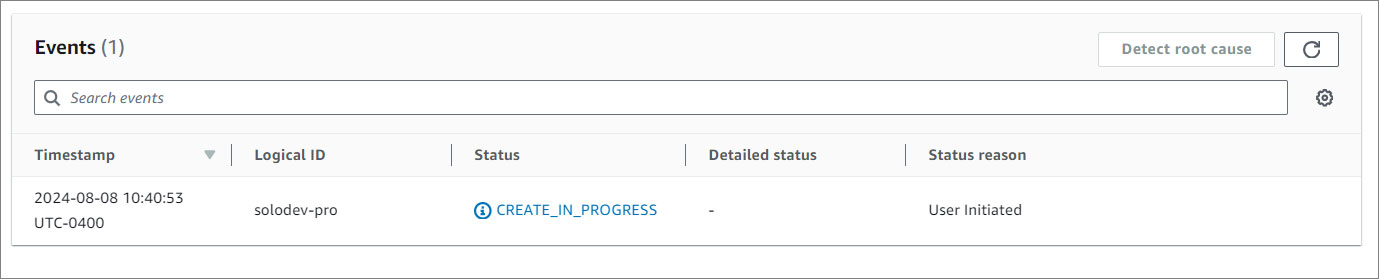
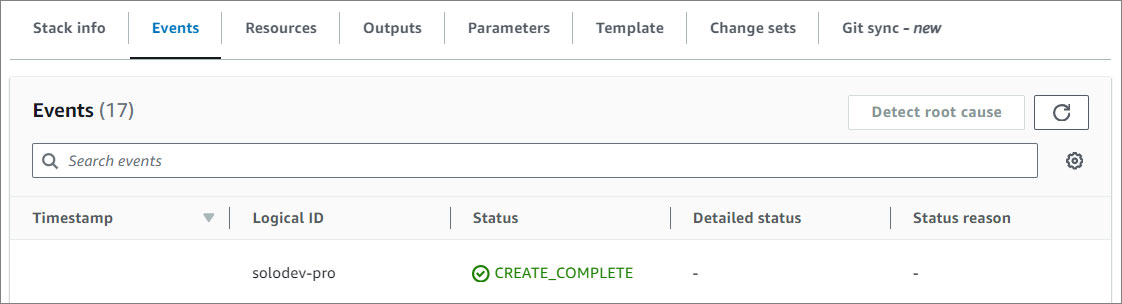
Update stacks section images for pro and micro.

diff --git a/src/Quickstart/Solodev Micro/index.md b/src/Quickstart/Solodev Micro/index.md
@@ -73,15 +73,11 @@ If your AWS region is different from `us-east-1`, make sure to select your speci
 
 #### Create Stack
 
-1. Prepare template. Select **choose an existing template**.
+1. Create a stack.
 
-<p><img src="../../images/quickstart/micro/micro-prepare-template.jpg" alt="CMS Micro prepare template" style="width: 90%;"></p>
+<p><img src="../../images/quickstart/micro/micro-create-stack.jpg" alt="CMS Micro Create Stack" style="width: 90%;"></p>
 
-2. Specify template. Select **Amazon S3 URL**.
-
-<p><img src="../../images/quickstart/micro/micro-specify-template.jpg" alt="CMS Micro specify template" style="width: 90%;"></p>
-
-3. Click <span class="text-orange">**Next**<span>.
+2. Click <span class="text-orange">**Next**</span>.
 
 #### Stack Details
 
@@ -118,7 +114,7 @@ SsoProviderUrl | Issuer URL of your OpenID Connect provider.
 SsoClientId | Unique identifier assigned to a client application that is registered with an AWS Single Sign-On (SSO) service, used to authenticate and authorize the application to access SSO resources.
 SsoClientSecret | Confidential key assigned to a client application registered with an AWS Single Sign-On (SSO) service, used in conjunction with the SSO Client ID to authenticate the application and secure access to SSO resources.
 
-3. Click <span class="text-orange">**Next**<span>.
+3. Click <span class="text-orange">**Next**</span>.
 
 #### Configure Stack Options
 
@@ -149,7 +145,7 @@ To learn more about the stack failure options, <a href="https://docs.aws.amazon.
 
 <p><img src="../../images/quickstart/micro/micro-stack-advanced.jpg" alt="CMS Micro advanced options" style="width: 50%;"></p>
 
-2. Click <span class="text-orange">**Next**<span>.
+2. Click <span class="text-orange">**Next**</span>.
 
 ### Review and create
 
@@ -159,7 +155,21 @@ To learn more about the stack failure options, <a href="https://docs.aws.amazon.
 
 <p><img src="../../images/quickstart/micro/micro-stack-capabilities.jpg" alt="CMS Micro capabilities" style="width: 62%;"></p>
 
-3. Click <span class="text-orange">**Submit**<span>.
+3. Click <span class="text-orange">**Submit**</span>.
+
+### Stacks
+
+1. <span class="text-orange">**Watch your CMS being created!**</span> Once the status changes from **CREATE_IN_PROGRESS** to **CREATE_COMPLETE**, you can access your CMS.
+
+<p><img src="../../images/quickstart/micro/micro-stack.jpg" alt="CMS Micro Stack" style="width: 62%;"></p>
+
+2. Click on the **Outputs** tab and copy the AdminUrl value.
+
+<p><img src="../../images/quickstart/pro/pro-stack-outputs.jpg" alt="CMS Micro Stack Outputs" style="width: 62%;"></p>
+
+3. Open your preferred browser and paste the AdminUrl value to access the CMS login page. Use the **Admin Username** and **Admin Password** provided in the stacks output to log in.
+
+<p><img src="../../images/quickstart/login-screen.jpg" alt="Solodev CMS Login Screen" style="width: 50%;"></p>
 
 {% endtab %}
 
@@ -313,7 +323,7 @@ If you do not have a Key Pair, you will need to create one in your Key Pair Cons
 
 Please [follow this link](/workspace/websites/add-website/) to learn more about Solodev and to learn how to build your first website.
 
-<p><img src="../../images/quickstart/login-screen.jpg" alt="Solodev CMS Login Screen" style="width: 45%;"></p>
+<p><img src="../../images/quickstart/login-screen.jpg" alt="Solodev CMS Login Screen" style="width: 50%;"></p>
 
 ### Troubleshooting
 

diff --git a/src/Quickstart/Solodev Pro/index.md b/src/Quickstart/Solodev Pro/index.md
@@ -97,7 +97,7 @@ If your AWS region is different from `us-east-1`, make sure to select your speci
 
 <p><img src="../../images/quickstart/pro/pro-create-stack.jpg" alt="CMS Pro Create Stack" style="width: 90%;"></p>
 
-2. Click <span class="text-orange">**Next**<span>.
+2. Click <span class="text-orange">**Next**</span>.
 
 #### Stack Details
 
@@ -158,7 +158,7 @@ SsoClientId | Unique identifier assigned to a client application that is registe
 SsoClientSecret | Confidential key assigned to a client application registered with an AWS Single Sign-On (SSO) service, used in conjunction with the SSO Client ID to authenticate the application and secure access to SSO resources.
 AmiAlias | An AMI Alias refers to a user-defined name or identifier for an Amazon Machine Image (AMI) that simplifies the process of referring to an AMI. <a href="https://docs.aws.amazon.com/AWSEC2/latest/UserGuide/AMIs.html" target="_blank">Click here :icon-link-external:</a> to learn more about AMIs.
 
-3. Click <span class="text-orange">**Next**<span>.
+3. Click <span class="text-orange">**Next**</span>.
 
 #### Configure Stack Options
 
@@ -189,7 +189,7 @@ To learn more about the stack failure options, <a href="https://docs.aws.amazon.
 
 <p><img src="../../images/quickstart/micro/micro-stack-advanced.jpg" alt="CMS Pro advanced options" style="width: 50%;"></p>
 
-2. Click <span class="text-orange">**Next**<span>.
+2. Click <span class="text-orange">**Next**</span>.
 
 ### Review and create
 
@@ -199,11 +199,11 @@ To learn more about the stack failure options, <a href="https://docs.aws.amazon.
 
 <p><img src="../../images/quickstart/pro/pro-stack-capabilities.jpg" alt="CMS Pro capabilities" style="width: 62%;"></p>
 
-3. Click <span class="text-orange">**Submit**<span>.
+3. Click <span class="text-orange">**Submit**</span>.
 
 ### Stacks
 
-1. **Watch your CMS being created!** Once the status changes from **CREATE_IN_PROGRESS** to **CREATE_COMPLETE**, you can access your CMS.
+1. <span class="text-orange">**Watch your CMS being created!**</span> Once the status changes from **CREATE_IN_PROGRESS** to **CREATE_COMPLETE**, you can access your CMS.
 
 <p><img src="../../images/quickstart/pro/pro-stack.jpg" alt="CMS Pro Stack" style="width: 62%;"></p>
 
@@ -213,7 +213,7 @@ To learn more about the stack failure options, <a href="https://docs.aws.amazon.
 
 3. Open your preferred browser and paste the AdminUrl value to access the CMS login page. Use the **Admin Username** and **Admin Password** provided in the stacks output to log in.
 
-<p><img src="../../images/quickstart/login-screen.jpg" alt="Solodev CMS Login Screen" style="width: 60%;"></p>
+<p><img src="../../images/quickstart/login-screen.jpg" alt="Solodev CMS Login Screen" style="width: 50%;"></p>
 
 {% endtab %}
 
